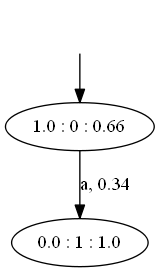
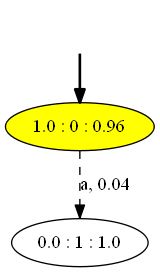
Fixed errors when emphasizing

diff --git a/draw.py b/draw.py
@@ -48,9 +48,9 @@ class multithread(QRunnable):
         try:
             result = self.fn(*self.args, **self.kwargs)
         except:
-            traceback.print_exc()
+            #traceback.print_exc()
             exctype, value = sys.exc_info()[:2]
-            self.signals.error.emit((exctype, value, traceback.format_exc()))
+            #self.signals.error.emit((exctype, value, traceback.format_exc()))
         else:
             self.signals.result.emit(result)  # Return the result of the processing
         finally:
@@ -76,15 +76,18 @@ class MyWindow(QMainWindow, form_class):
     def enter_pressed(self):
         start_time = time.time()
         # make hamming automaton
-        hamming = PFA_utils.DFA_constructor(str(self.lineEdit.text()), self.k, list(set(self.lineEdit.text())))
+        input_string = str(self.lineEdit.text())
+        sigma = list(set(input_string))
+        hamming = PFA_utils.DFA_constructor(input_string, self.k, sigma)
         
         # intersect hamming & pfa -> sub_pfa
-        input_dpfa = PFA_utils.DPFA_generator(2, 2)
+        input_dpfa = PFA_utils.DPFA_generator(nbS = 6, nbL = 3)
         ra = input_dpfa.intersect_with_DFA(hamming)
         sub_dpfa = PFA.PFA(ra.nbL, ra.nbS, ra.initial, ra.final, ra.transitions)
 
         # normalize sub_pfa -> dpfa
         self.dpfa = PFA_utils.normalizer(sub_dpfa)
+        ##self.dpfa = input_dpfa
 
         # Do exact MPS on dpfa
         k_mps = self.dpfa.MPS()
@@ -128,50 +131,64 @@ class MyWindow(QMainWindow, form_class):
         
 def makePNG(RA):
     dot = Digraph(comment='PFA', format='png')
+    # draw nodes
     for i in range(RA.nbS):
         initial_prob = round(RA.initial[i],2)
         final_prob = round(RA.final[i],2)
         dot.node(str(i),'{} : {} : {}'.format(initial_prob,str(i),final_prob))
+    # draw edges
     for alphabet in RA.transitions.keys():
         for i in range(RA.nbS):
             for j in range(RA.nbS):
                 if RA.transitions[alphabet][i,j] > 0:
                     probability = round(RA.transitions[alphabet][i,j],2)
                     dot.edge(str(i), str(j), '{}, {}'.format(alphabet,probability))
+    # draw start edge
     dot.attr('node',shape='none')
     dot.node('')
     dot.edge('','0')
     dot.render('DPFA')
 
 def emphasizePNG(RA, string):
-    current_node = 0
-    str_idx = 0
+    edge_dict = {}
     dot = Digraph(comment='PFA', format='png')
+
+    # draw nodes
     for i in range(RA.nbS):
         initial_prob = round(RA.initial[i],2)
         final_prob = round(RA.final[i],2)
-        if i == current_node:
-            if str_idx < len(string):
-                current_node = np.nonzero(RA.transitions[string[str_idx]][current_node])[0]
-                str_idx += 1
-            dot.node(str(i),'{} : {} : {}'.format(initial_prob,str(i),final_prob),style='filled',fillcolor='yellow')
-        else:
-            dot.node(str(i),'{} : {} : {}'.format(initial_prob,str(i),final_prob))
-    
-    current_node = 0
+        dot.node(str(i),'{} : {} : {}'.format(initial_prob,str(i),final_prob))
+
     str_idx = 0
+    current_node = 0
+    # color the start node
+    initial_prob = round(RA.initial[current_node],2)
+    final_prob = round(RA.final[current_node],2)
+    dot.node(str(current_node), '{} : {} : {}'.format(initial_prob,current_node,final_prob),style='filled',fillcolor='yellow')
+    
+    while str_idx < len(string):
+        next_node = np.nonzero(RA.transitions[string[str_idx]][current_node])[0][0]
+        initial_prob = round(RA.initial[next_node],2)
+        final_prob = round(RA.final[next_node],2)
+        # color the nodes that matche string
+        dot.node(str(next_node), '{} : {} : {}'.format(initial_prob,next_node,final_prob),style='filled',fillcolor='yellow')
+        character = string[str_idx]
+        probability = round(RA.transitions[character][current_node,next_node],2)
+        # draw edges that matche string
+        dot.edge(str(current_node), str(next_node), '{}, {}'.format(character,probability),style='bold')
+        edge_dict[(current_node, next_node)] = None
+        current_node = next_node
+        str_idx += 1
+
+    # draw remaining edges
     for alphabet in RA.transitions.keys():
         for i in range(RA.nbS):
             for j in range(RA.nbS):
-                if RA.transitions[alphabet][i,j] > 0:
-                    if i == current_node and str_idx < len(string):
-                        current_node = j
-                        str_idx += 1
-                        probability = round(RA.transitions[alphabet][i,j],2)
-                        dot.edge(str(i), str(j), '{}, {}'.format(alphabet,probability),style='bold')
-                    else:   
-                        probability = round(RA.transitions[alphabet][i,j],2)
-                        dot.edge(str(i), str(j), '{}, {}'.format(alphabet,probability),style='dashed')
+                if (i,j) not in edge_dict.keys() and RA.transitions[alphabet][i,j] > 0:
+                    probability = round(RA.transitions[alphabet][i,j],2)
+                    dot.edge(str(i), str(j), '{}, {}'.format(alphabet,probability),style='dashed')
+
+    # start edge
     dot.attr('node',shape='none')
     dot.node('')
     dot.edge('','0',style='bold')
